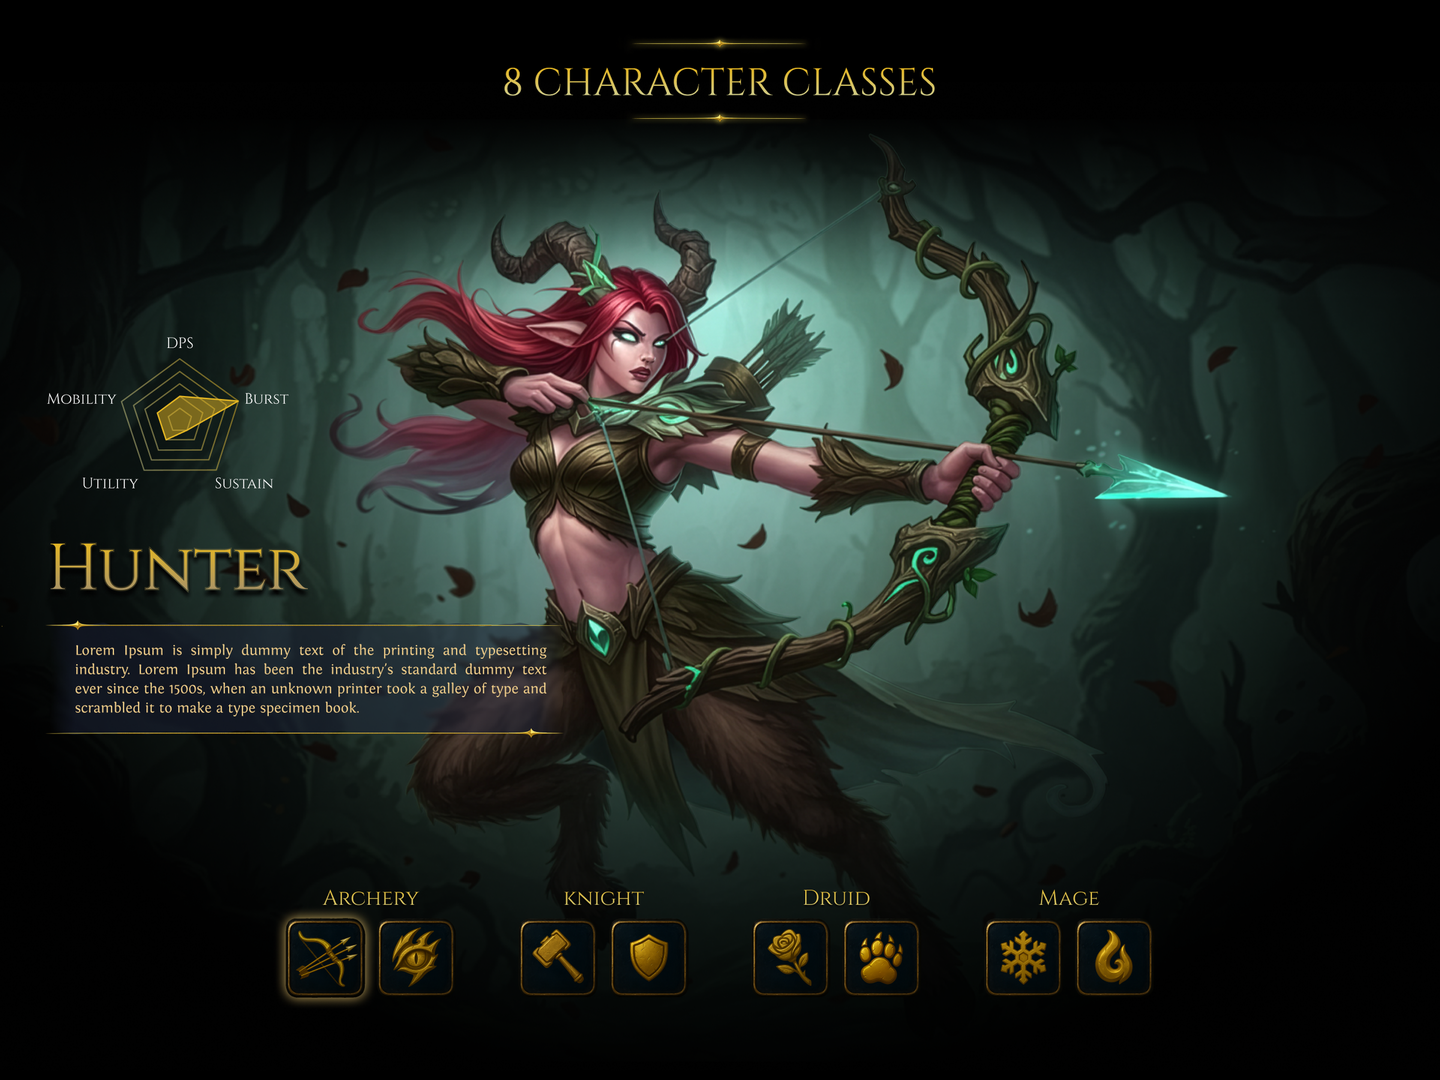
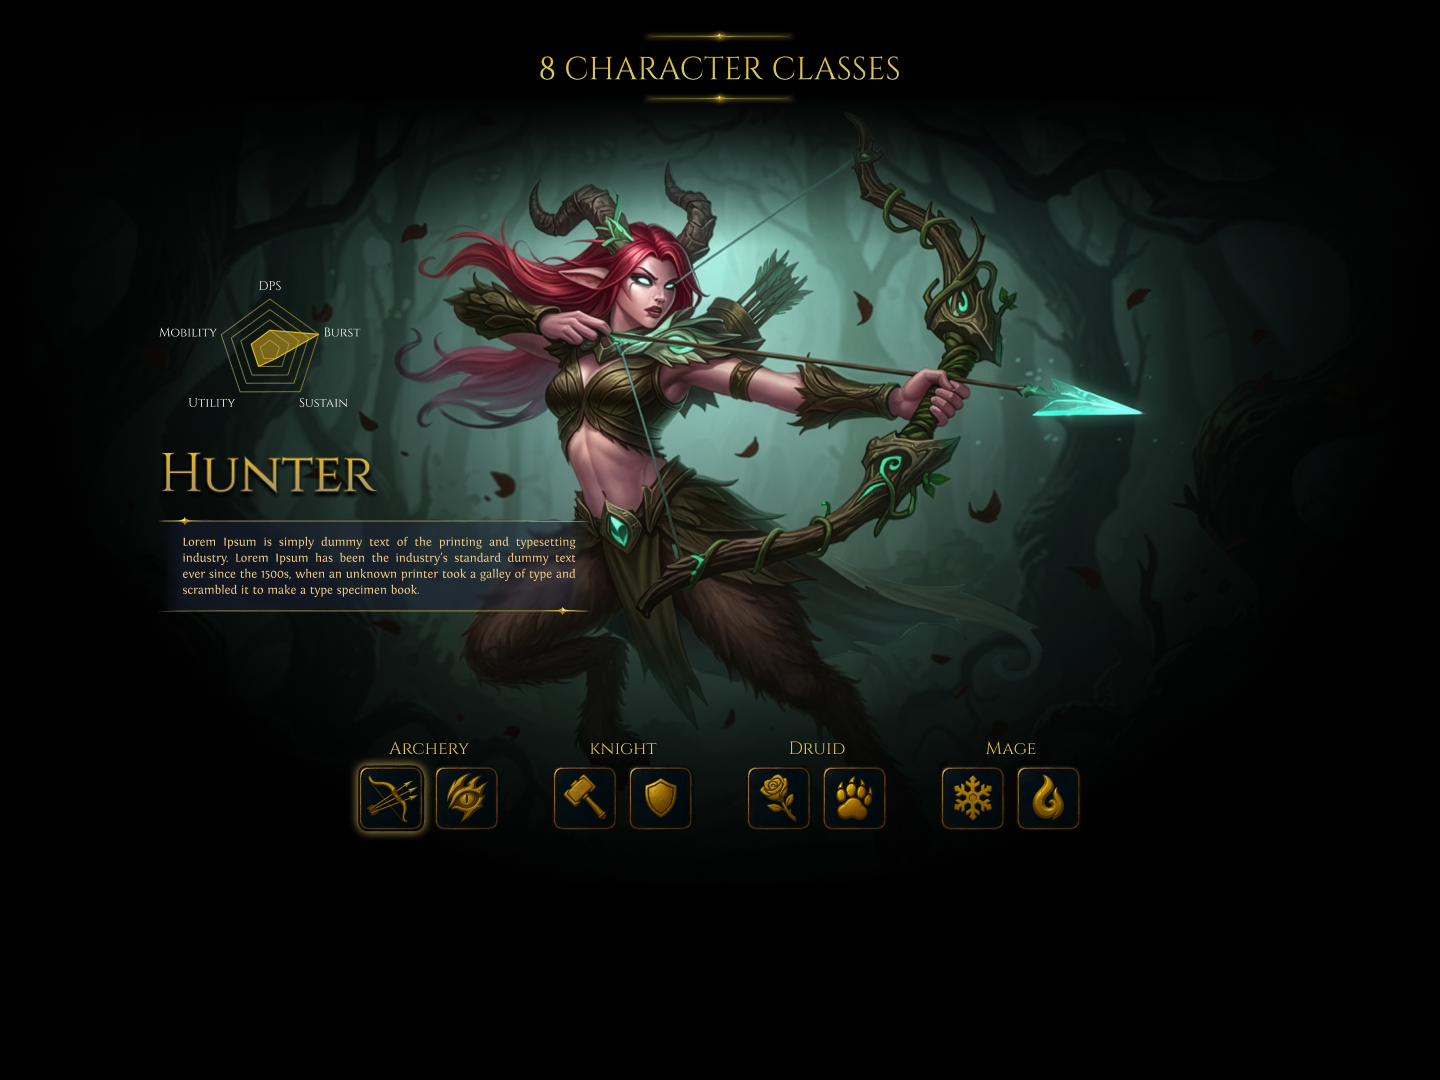
Fix duplicate text overlays and Hunter image scale
- SectionTitle: replace baked-in ornament image with CSS gold lines
- Hero: remove duplicate text from Play Now and Play Demo (images
  already contain the text)
- Hunter: re-export at 1:1 scale with black padding at bottom instead
  of zoomed-in scale that made the character appear larger

diff --git a/src/components/Hero.tsx b/src/components/Hero.tsx
@@ -73,45 +73,20 @@ export default function Hero() {
 
       {/* Play Demo Banner */}
       <div className="absolute" style={{ left: '27.6%', top: '42.5%', width: '44.9%' }}>
-        <div className="relative flex items-center justify-center" style={{ height: '6.9%' }}>
-          <img src={playDemoFrame} alt="" className="absolute inset-0 w-full h-full object-contain pointer-events-none" />
-          <p
-            className="relative z-10 gold-text"
-            style={{
-              fontFamily: "'Cinzel', serif",
-              fontSize: '2.4vw',
-              fontWeight: 400,
-              letterSpacing: '0.03em',
-            }}
-          >
-            PLAY DEMO 15/02, Join us!
-          </p>
-        </div>
+        <img src={playDemoFrame} alt="Play Demo 15/02, Join us!" className="w-full h-auto" />
       </div>
 
       {/* Play Now Button */}
       <a
         href="#play"
-        className="absolute flex items-center justify-center group"
+        className="absolute group"
         style={{ left: '33.7%', top: '53.7%', width: '32.6%' }}
       >
         <img
           src={playNowBtn}
-          alt=""
+          alt="Play Now"
           className="w-full h-auto group-hover:brightness-125 transition-all"
         />
-        <span
-          className="absolute z-10 text-white"
-          style={{
-            fontFamily: "'Cinzel', serif",
-            fontSize: '1.8vw',
-            fontWeight: 500,
-            letterSpacing: '0.1em',
-            textShadow: '0 2px 8px rgba(0,0,0,0.5)',
-          }}
-        >
-          PLAY NOW
-        </span>
       </a>
 
       {/* Timeline */}

diff --git a/src/components/SectionTitle.tsx b/src/components/SectionTitle.tsx
@@ -1,29 +1,25 @@
-import sectionTitleOrnament from '../assets/images/section-title-ornament.png';
-
 interface SectionTitleProps {
   title: string;
 }
 
 export default function SectionTitle({ title }: SectionTitleProps) {
   return (
-    <div className="relative flex flex-col items-center justify-center" style={{ width: '12vw', height: '5vw' }}>
-      <img
-        src={sectionTitleOrnament}
-        alt=""
-        className="absolute inset-0 w-full h-full object-contain pointer-events-none"
-      />
+    <div className="flex flex-col items-center" style={{ gap: '0.5vw' }}>
+      <div className="h-[1px] bg-gradient-to-r from-transparent via-[#c5944a] to-transparent" style={{ width: '12vw' }} />
       <h2
-        className="relative z-10 gold-title"
+        className="gold-title"
         style={{
           fontFamily: "'Cinzel', serif",
           fontSize: '2.2vw',
           fontWeight: 400,
           textAlign: 'center',
           letterSpacing: '0.05em',
+          whiteSpace: 'nowrap',
         }}
       >
         {title}
       </h2>
+      <div className="h-[1px] bg-gradient-to-r from-transparent via-[#c5944a] to-transparent" style={{ width: '12vw' }} />
     </div>
   );
 }
